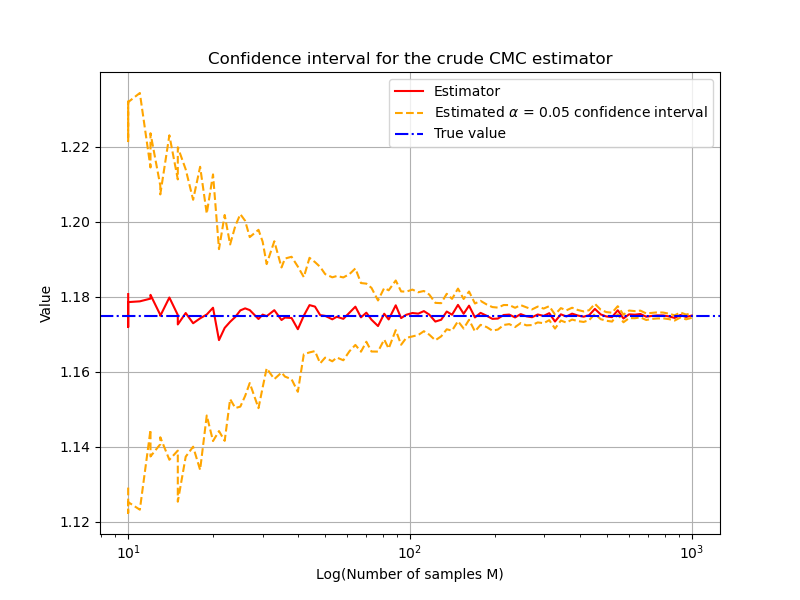
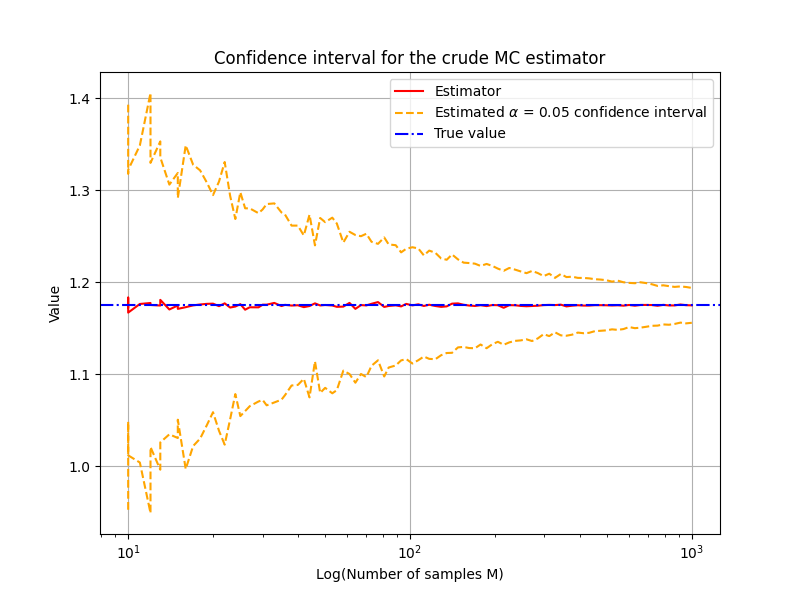
Minor fix

diff --git a/question5.py b/question5.py
@@ -93,12 +93,13 @@ def shifted(x, a, b):
     return 2 * (x - a) / (b - a) - 1
 
 
-def crude_MC_2D(a_samples, b_samples, epsilon, I, v0, w0, t0, T, Nt, alpha):
+def crude_MC_2D(a_samples, b_samples, epsilon, I, v0, w0, t0, T, Nt, alpha=0.05):
     """
     Provide a crude Monte Carlo estimator for the integral of Q.
     args : a_samples, samples x drawn from uniform distribution U([0.6, 0.8])
            b_samples, samples y drawn from uniform distribution U([0.7, 0.9])
            epsilon, I, v0, w0, t0, T, Nt, parameters of the Fitzhugh-Nagumo model
+           alpha, significance level of the confidence interval
     return : estim, crude MC estimator based on these samples
              CI, confidence interval for the crude MC estimator based on these samples
     """
@@ -108,11 +109,11 @@ def crude_MC_2D(a_samples, b_samples, epsilon, I, v0, w0, t0, T, Nt, alpha):
         Q[i] = calculate_Q(epsilon, I, v0, w0, t0, T, Nt, a_samples[i], b_samples[i])
     estim = (0.2 ** 2) * np.sum(Q) / M
     quantile = norm.ppf(1 - alpha / 2, loc=0, scale=1)
-    CI = estim + np.array([-1, 1]) * quantile * np.std(Q) / M
+    CI = estim + np.array([-1, 1]) * quantile * np.std(Q) / np.sqrt(M)
     return estim, CI
 
 
-def MCLS_2D(a_samples, b_samples, n, epsilon, I, v0, w0, t0, T, Nt, alpha):
+def MCLS_2D(a_samples, b_samples, n, epsilon, I, v0, w0, t0, T, Nt, alpha=0.05):
     """
     Compute Monte Carlo Least Square estimator of for the integral of Q.
     args : a_samples, samples x drawn from uniform distribution U([0.6, 0.8])
@@ -122,7 +123,7 @@ def MCLS_2D(a_samples, b_samples, n, epsilon, I, v0, w0, t0, T, Nt, alpha):
            alpha, significance level of the confidence interval
     return : estim, crude MC estimator based on these samples
              cond, condition number of the Vandermonde matrix
-             CI, confidence interval for the crude MC estimator based on these samples
+             CI, confidence interval
     """
     M = len(a_samples)
     
@@ -149,20 +150,22 @@ def MCLS_2D(a_samples, b_samples, n, epsilon, I, v0, w0, t0, T, Nt, alpha):
     
     # compute the estimator
     estim = (0.2 ** 2) * (np.sum(Q - np.polynomial.legendre.legval2d(shifted(a_samples, 0.6, 0.8), shifted(b_samples, 0.7, 0.9), c)) / M + c[0, 0])
+
+    # compute the confidence interval
     quantile = norm.ppf(1 - alpha / 2, loc=0, scale=1)
-    err = np.sqrt(np.sum((Q - np.polynomial.legendre.legval2d(shifted(a_samples, 0.6, 0.8),
-                                                              shifted(b_samples, 0.7, 0.9), c)) ** 2) / M) / np.sqrt(M)
-    CI = estim + np.array([-1, 1]) * quantile * err
+    std_ls = np.sqrt(np.sum((Q - np.polynomial.legendre.legval2d(shifted(a_samples, 0.6, 0.8), shifted(b_samples, 0.7, 0.9), c)) ** 2) / M)
+    CI = estim + np.array([-1, 1]) * quantile * std_ls / np.sqrt(M)
     return estim, cond, CI
 
 
-def MCLS_prime_2D(a_samples, b_samples, n, epsilon, I, v0, w0, t0, T, Nt):
+def MCLS_prime_2D(a_samples, b_samples, n, epsilon, I, v0, w0, t0, T, Nt, alpha=0.05):
     """
     Compute an alternative Monte Carlo Least Square estimator of for the integral of Q.
     args : a_samples, samples x drawn from uniform distribution U([0.6, 0.8])
            b_samples, samples y drawn from uniform distribution U([0.7, 0.9])
            n, maximal exponential of the Legendre polynomials
            epsilon, I, v0, w0, t0, T, Nt, parameters of the Fitzhugh-Nagumo model
+           alpha, significance level of the confidence interval
     return : estim, crude MC estimator based on these samples
              cond, condition number of the Vandermonde matrix
     """
@@ -186,7 +189,12 @@ def MCLS_prime_2D(a_samples, b_samples, n, epsilon, I, v0, w0, t0, T, Nt):
     # compute the estimator
     estim = (0.2 ** 2) * c[0, 0]
 
-    return estim, cond
+    # compute the confidence interval
+    quantile = norm.ppf(1 - alpha / 2, loc=0, scale=1)
+    std_ls = np.sqrt(np.sum((Q - np.polynomial.legendre.legval2d(shifted(a_samples, 0.6, 0.8), shifted(b_samples, 0.7, 0.9), c)) ** 2) / M)
+    CI = estim + np.array([-1, 1]) * quantile * std_ls / np.sqrt(M)
+
+    return estim, cond, CI
 
 
 def calculate_error(a_samples, b_samples, n, epsilon, I, v0, w0, t0, T, Nt):
@@ -220,17 +228,19 @@ def calculate_error(a_samples, b_samples, n, epsilon, I, v0, w0, t0, T, Nt):
 
     # compute the error estimator
     err = np.sqrt(np.sum((Q - np.polynomial.legendre.legval2d(shifted(a_samples, 0.6, 0.8), shifted(b_samples, 0.7, 0.9), c)) ** 2)) / M
+    
     return err
 
 
 # not necessary, already included in MCLS_2D
-def CI_MCLS_2D(a_samples, b_samples, n, epsilon, I, v0, w0, t0, T, Nt, estim, alpha):
+def CI_MCLS_2D(a_samples, b_samples, n, epsilon, I, v0, w0, t0, T, Nt, estim, alpha=0.05):
     """
     Compute the confidence interval of the MCLS estimator.
     args : a_samples, samples x drawn from uniform distribution U([0.6, 0.8])
             b_samples, samples y drawn from uniform distribution U([0.7, 0.9])
             n, maximal exponential of the Legendre polynomials
             epsilon, I, v0, w0, t0, T, Nt, parameters of the Fitzhugh-Nagumo model
+            alpha, significance level of the confidence interval
     return : CI, confidence interval
     """
     M = len(a_samples)

diff --git a/run_question5.py b/run_question5.py
@@ -35,7 +35,6 @@ plt.plot(t_scipy, w_scipy)
 plt.legend(['v', 'w', 'v_scipy', 'w_scipy'])
 plt.show()
 
-
 ### estimate the integral of Q ###
 
 compute_ref = False
@@ -78,8 +77,8 @@ if compute_ref:
     n = 3
     a_unif = np.random.uniform(0.6, 0.8, N)
     b_unif = np.random.uniform(0.7, 0.9, N)
-    ref_value_2D_MCLS, _ = MCLS_2D(a_unif, b_unif, n, epsilon, I, v0, w0, t0, T, Nt)
-    ref_value_2D_MCLS_prime, _ = MCLS_prime_2D(a_unif, b_unif, n, epsilon, I, v0, w0, t0, T, Nt)
+    ref_value_2D_MCLS, _, _ = MCLS_2D(a_unif, b_unif, n, epsilon, I, v0, w0, t0, T, Nt)
+    ref_value_2D_MCLS_prime, _, _ = MCLS_prime_2D(a_unif, b_unif, n, epsilon, I, v0, w0, t0, T, Nt)
 
 ref_value_2D_MCLS = 1.1749791860591807
 ref_value_2D_MCLS_prime = 1.174979186071431
@@ -87,15 +86,19 @@ ref_value_2D_MCLS_prime = 1.174979186071431
 # maximum degree of the Legendre polynomials
 trials_n = [0, 1, 2, 3]
 nb_trials_n = len(trials_n)
-alpha=0.05
+
 # MCLS estimators
 MCLS_estims_2D = [-1 * np.ones(N) for _ in range(nb_trials_n)]
-MCLS_CI_2D=[-1 * np.ones((N,2)) for _ in range(nb_trials_n)]
-err_MCLS_2D=[-1 * np.ones(N) for _ in range(nb_trials_n)]
 MCLS_prime_estims_2D = [-1 * np.ones(N) for _ in range(nb_trials_n)]
 
-tic = time.time()
+# confidence intervals
+alpha = 0.05
+MCLS_CI_2D = [-1 * np.ones((N,2)) for _ in range(nb_trials_n)]
 
+# error estimators
+err_MCLS_2D = [-1 * np.ones(N) for _ in range(nb_trials_n)]
+
+tic = time.time()
 
 for M in range(N):
     for i in range(nb_trials_n):
@@ -110,7 +113,7 @@ for M in range(N):
             b_unif_samps = np.random.uniform(0.7, 0.9, nb_samples[M])
             MCLS_estims_2D[i][M], _, MCLS_CI_2D[i][M]= MCLS_2D(a_unif_samps, b_unif_samps, n, epsilon, I, v0, w0, t0, T, Nt, alpha)
             err_MCLS_2D[i][M] = calculate_error(a_samples, b_samples, n, epsilon, I, v0, w0, t0, T, Nt)
-            MCLS_prime_estims_2D[i][M], _ = MCLS_prime_2D(a_unif_samps, b_unif_samps, n, epsilon, I, v0, w0, t0, T, Nt)
+            MCLS_prime_estims_2D[i][M], _, _ = MCLS_prime_2D(a_unif_samps, b_unif_samps, n, epsilon, I, v0, w0, t0, T, Nt)
 
 toc = time.time()
 print(f'Elapsed time: {toc - tic}s')
@@ -120,18 +123,15 @@ multiple_loglog_graph(nb_samples, MCLS_estims_2D, ref_value_2D_MCLS, trials_n)
 multiple_loglog_graphp(nb_samples, MCLS_prime_estims_2D, ref_value_2D_MCLS_prime, trials_n)
 
 # plot the confidence interval for a fixed n
-i=3 #fix n to plot the CI for MCLS
+i = 3 # fix n to plot the CI for MCLS
 plot_CI(nb_samples, MCLS_estims_2D[i], MCLS_CI_2D[i], ref_value_2D_MCLS, alpha)
 
-# plot the error estimate
-cut=0
 # plot the error estimator vs the true error
+cut = 0
 plt.figure()
 for i in range(nb_trials_n):
-    plt.plot(nb_samples[cut:], np.abs(MCLS_estims_2D[i][cut:]-ref_value_2D_MCLS), label=f'true n={trials_n[i]}')
+    plt.plot(nb_samples[cut:], np.abs(MCLS_estims_2D[i][cut:] - ref_value_2D_MCLS), label=f'true n={trials_n[i]}')
     plt.plot(nb_samples[cut:], err_MCLS_2D[i][cut:], label=f'estimated n={trials_n[i]}')
 plt.title('Error estimator vs true error for different values of n')
 plt.xscale('log')
 plt.legend(['true error', 'estimated error'])
-
-
